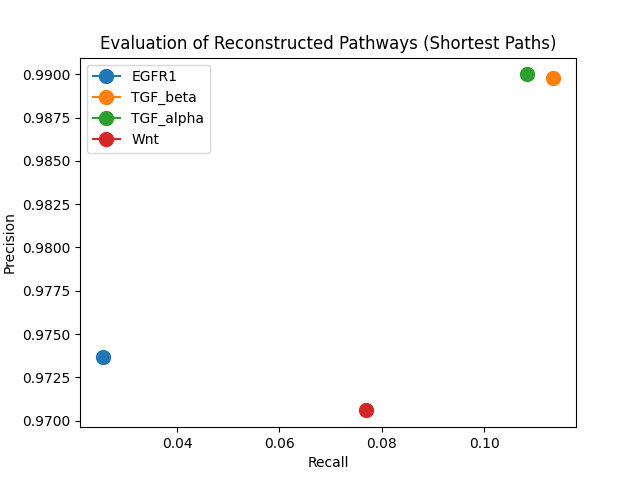
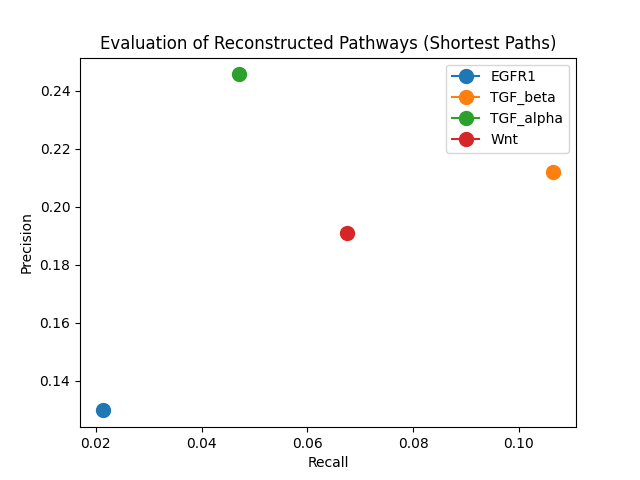
part 5

diff --git a/edgeparser.py b/edgeparser.py
@@ -1,11 +1,16 @@
+from socket import create_server
 import networkx as nx
 from networkx import dijkstra_path
+import scipy
+from scipy import sparse
+from scipy.sparse import csr_array
+import numpy
 import os
 from collections import OrderedDict
 import matplotlib.pyplot as plt
 
 # some code that does not need to be run every time
-# has been commented out to speed up the program
+# may be commented out to speed up the program
 
 # --------------------- Part 1 --------------------------
 folder = 'NetPath-pathways'
@@ -56,14 +61,14 @@ for edgeset in edges:
     counter +=1
 
 # reads from the whpin file and adds corresponding edges to the whpin graph
-whpin = nx.Graph()
+whpin = nx.DiGraph()
 if os.path.isfile('WHPIN.txt'):
     with open('WHPIN.txt') as text:
         lines = text.readlines()
         i = 1
         for i in range(len(lines)):
             edge = lines[i].split()
-            whpin.add_edge(edge[0], edge[1], weight=edge[2])
+            whpin.add_edge(edge[0], edge[1])
             
 # sanity check (all results are true so it has been commented out
 # to speed up the program)
@@ -153,6 +158,7 @@ plt.savefig("precision_recall_PathLinker.png")
 
 
 # ------------------------------ Part 4 -------------------------------------
+'''
 # collecting tfs and receptors
 tfs = [[], [], [], []]
 sources = [[], [], [], []]
@@ -172,7 +178,7 @@ for i in range(len(tfs)):
     for tf in tfs[i]:
         for source in sources[i]:
             try:
-                path = (dijkstra_path(graphlist[i], source, tf))
+                path = (dijkstra_path(whpin, source, tf))
                 for j in range(len(path) - 1):
                     paths[i].add_edge(path[j], path[j + 1])
             except:
@@ -196,6 +202,7 @@ for i in range(len(paths)):
     results[(i * 2) + 1].append(positives / p)
 
 # plot precision recall points for the shortest path algorithm
+
 plt.clf()
 plt.plot(results[1], results[0], label="EGFR1", marker="o", markersize=10)
 plt.plot(results[3], results[2], label="TGF_beta", marker="o", markersize=10)
@@ -206,3 +213,17 @@ plt.title("Evaluation of Reconstructed Pathways (Shortest Paths)")
 plt.xlabel("Recall")
 plt.ylabel("Precision")
 plt.savefig("precision_recall_ShortestPaths.png")
+'''
+
+# ------------------------------ Part 5 -------------------------------------
+# implementing RWR
+matrix = nx.to_numpy_array(whpin)
+
+dmatrix = numpy.tril(matrix)
+dmatrix = numpy.triu(dmatrix)
+
+# unfortunately I was not able to get the below line to work
+# so I was not able to complete the RWR graph
+# whenever I tried to take the inverse of the diagonalized
+# matrix it outputted it as a singular matrix
+# numpy.transpose(numpy.matmul(numpy.inv(dmatrix), matrix))
